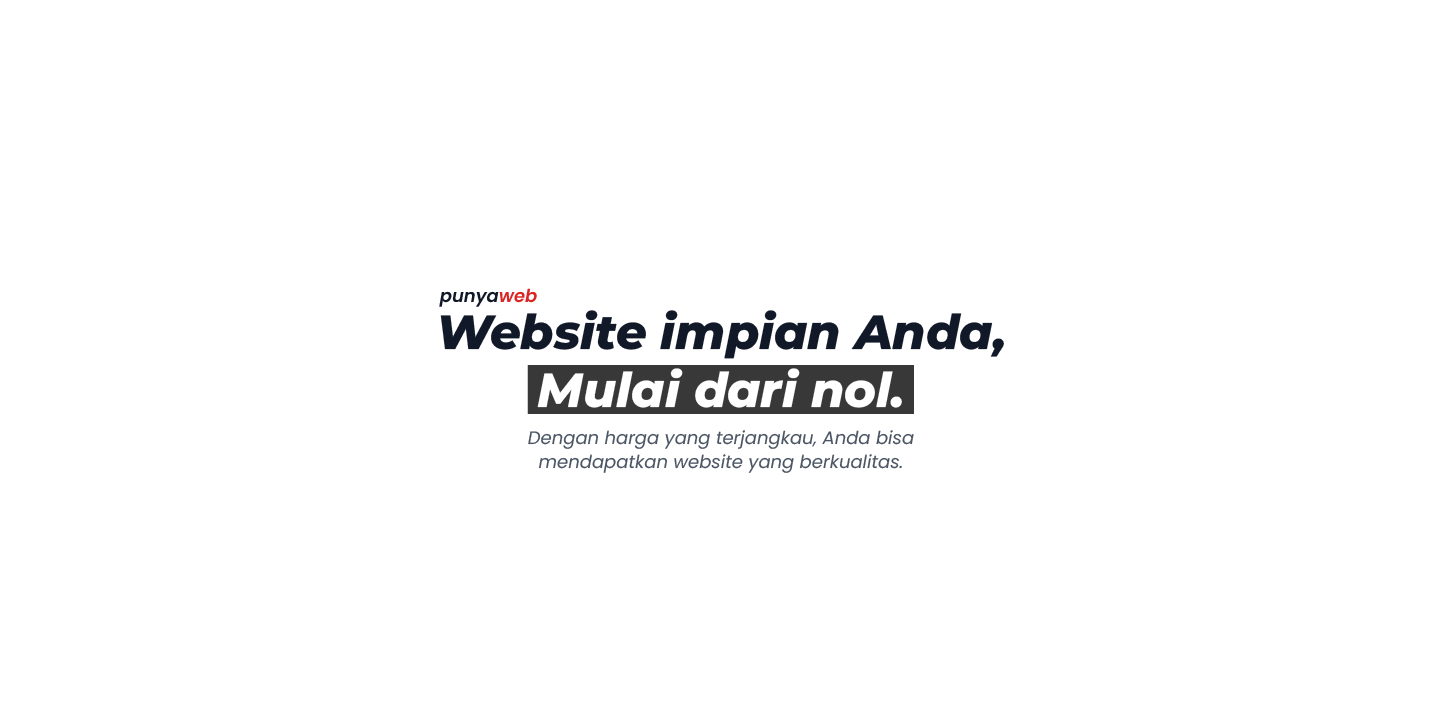
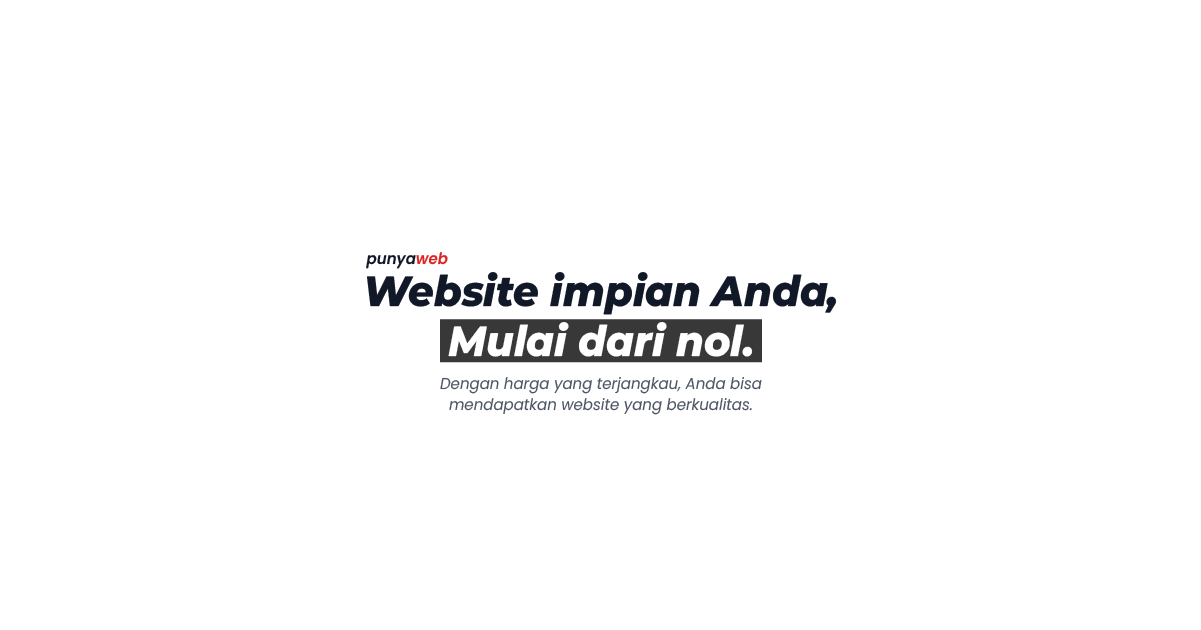
resize meta image

Changed region(s): [[0.3081, 0.4222, 0.7086, 0.573], [0.3697, 0.6032, 0.647, 0.6635], [0.3081, 0.3921, 0.3697, 0.4222]]

diff --git a/index.html b/index.html
@@ -13,7 +13,7 @@
     <meta property="og:type" content="website" />
     <meta property="og:title" content="punyaweb.com | Jasa Pembuatan Web" />
     <meta property="og:description" content="Cari developer React JS? Kami ahli dalam membangun website modern dengan React JS dan Tailwind CSS. Dapatkan penawaran harga terbaik untuk website Anda sekarang." />
-    <meta property="og:image" content="src/assets/images/punyaweb-header.png" />
+    <meta property="og:image" content="" />
     <!-- Load error, please check URL -->
 
     <!-- Twitter Meta Tags -->
@@ -22,7 +22,7 @@
     <meta property="twitter:url" content="https://punyaweb.vercel.app/" />
     <meta name="twitter:title" content="punyaweb.com | Jasa Pembuatan Web" />
     <meta name="twitter:description" content="Cari developer React JS? Kami ahli dalam membangun website modern dengan React JS dan Tailwind CSS. Dapatkan penawaran harga terbaik untuk website Anda sekarang." />
-    <meta name="twitter:image" content="src/assets/images/punyaweb-header.png" />
+    <meta name="twitter:image" content="" />
 
   </head>
   <body>
